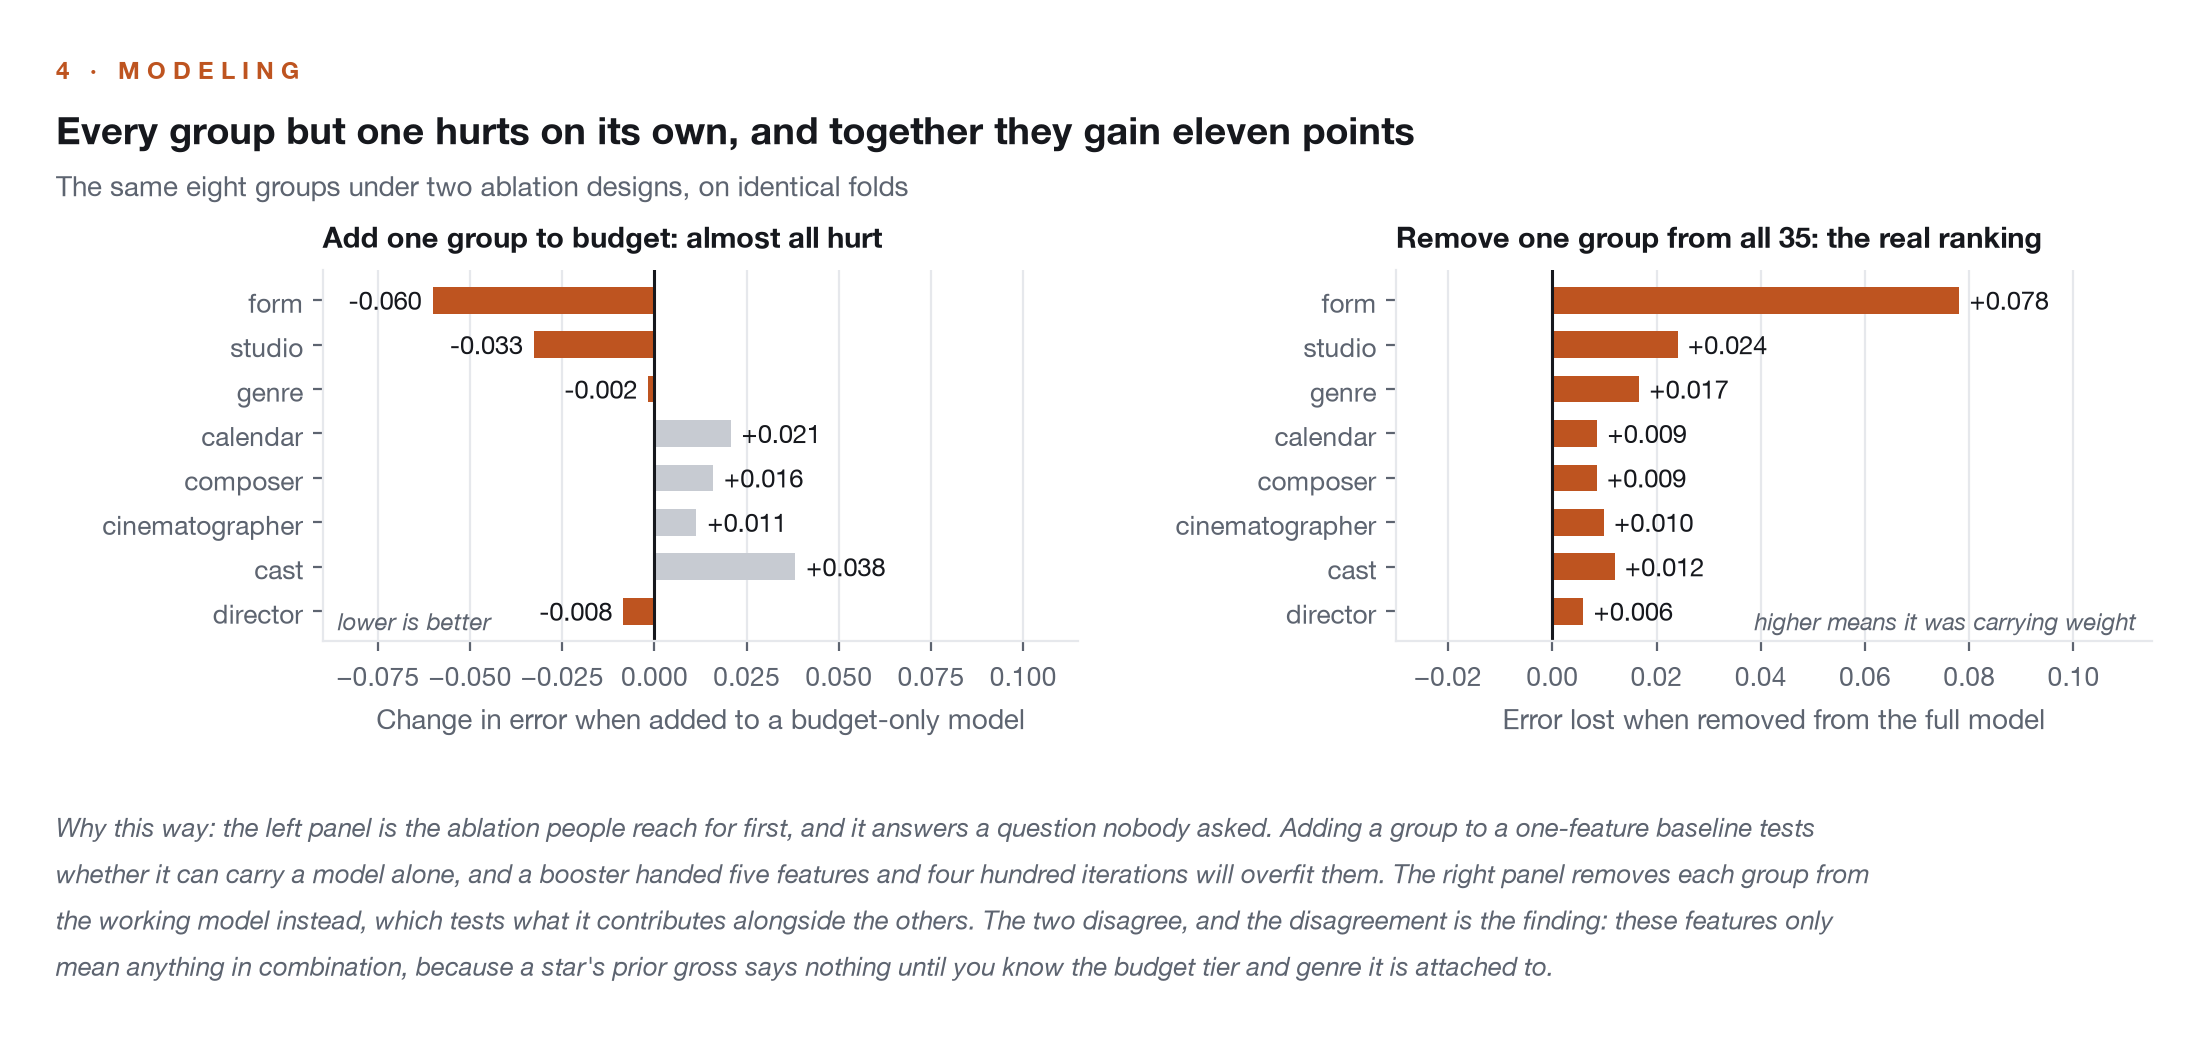
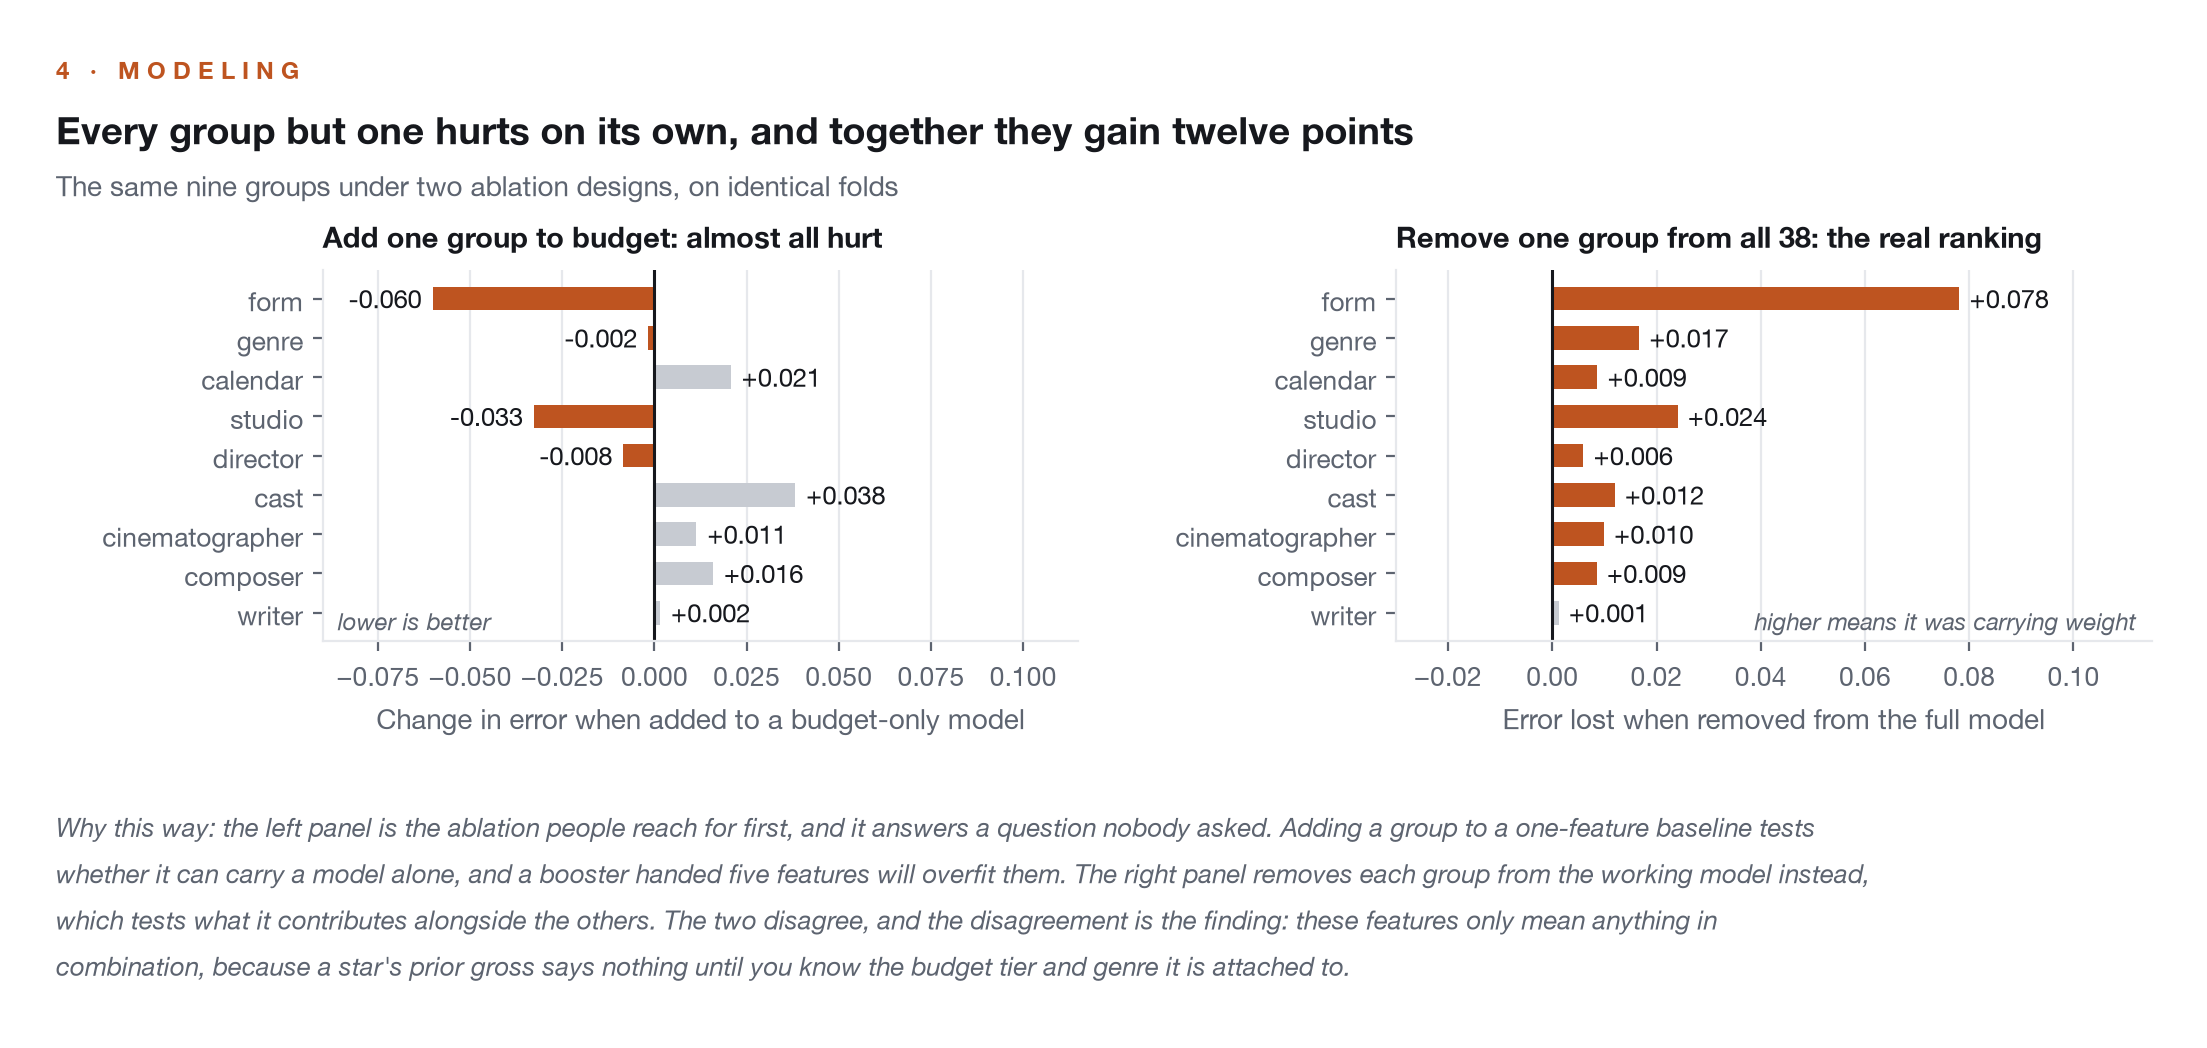
boxoffice: read every number in the figures from the data that produced it
The tests that pin every published table cannot see inside a PNG, and the
figures had drifted exactly the way the tables used to. The baselines chart
carried 31.0% and 47.3% as literals from before the target corrections, said
16 folds to 2025 and 35 features, and typed "clears it in 15 of the 16 folds"
into its own caption. Its lift arrow landed on the model's value label. The
sample funnel typed 2647 and 2000-2025. The ablation charts listed eight groups
and omitted the writer. The signals chart ranked groups by a third-decimal
error difference and captioned the people as sitting at zero, which the
significance run has since superseded.

Every number is now read at render time: the baselines and the per-fold record
from train.run, the sample size and year range from the matrix, the feature
count from feature_columns, the group list from ablation.csv, and the fourth
chart from significance.csv, drawn as effect on hit rate with a 95% whisker and
coloured by McNemar's verdict, so a bar only reads as carrying weight when its
interval clears zero. Every sentence containing a number is built from the
value. The two TMDB-side figures in the funnel, 37,486 theatrical titles in
2019 and 174 from the frame, stay as documented facts about the source rather
than derived statistics, and are labelled as such.

diff --git a/backend/boxoffice/reports/charts.py b/backend/boxoffice/reports/charts.py
@@ -3,8 +3,17 @@ Figures for the box office study, in the same house style as the portfolio.
 
 One chart per decision, each titled with what it found rather than what it
 plots, and each carrying the reasoning for its step underneath.
+
+Nothing in these figures is typed. The first version carried the baseline hit
+rates, the fold count, the year range, the feature count and even the sentence
+"clears it in 15 of the 16 folds" as string literals, and every one of them
+went stale the moment the sample grew or the target was corrected, while the
+tests that guard the written tables had no way to see inside a PNG. So every
+number here is read from the artifact that produced it, and every sentence
+that contains a number is built from the value at render time.
 """
 from __future__ import annotations
+import json
 import sys
 from pathlib import Path
 import numpy as np
@@ -17,21 +26,64 @@ import house as H
 from house import ACCENT, SLATE, GREY, INK, MUTED, LINE, BAD
 import matplotlib.pyplot as plt
 
+from boxoffice.model.train import feature_columns, run, summarise
+from boxoffice.pipeline.fetch import BUDGET_FLOOR, DISTRIBUTORS
+
 DATA = HERE.parent / "data"
 OUT = HERE / "figures"
 OUT.mkdir(parents=True, exist_ok=True)
 
 feat = pd.read_parquet(DATA / "features.parquet")
+released = feat[~feat["is_upcoming"].fillna(False).astype(bool)]
 abl = pd.read_csv(DATA / "ablation.csv")
+sig = pd.read_csv(DATA / "significance.csv")
+
+N_FEATURES = len(feature_columns(feat))
+YEAR_LO, YEAR_HI = int(released.release_date.dt.year.min()), int(released.release_date.dt.year.max())
+
+# The baselines and the per-fold record, computed rather than remembered.
+folds = run(feat, feature_columns(feat))
+summary = summarise(folds).set_index("estimator")
+N_FOLDS = len(folds)
+FOLD_LO, FOLD_HI = folds[0].year, folds[-1].year
+BEATS = sum(f.within_2x["model"] > f.within_2x["budget_only"] for f in folds)
+
+# Two figures TMDB reports about itself, recorded in the notebook's Decision 5
+# and kept here as documented facts about the source rather than derived
+# statistics. Everything below them in the funnel is counted from disk.
+TMDB_THEATRICAL_2019 = 37_486
+FRAME_2019 = 174
+
+
+def _above_floor() -> int:
+    """Released films in the cache that cleared the budget floor."""
+    today = pd.Timestamp.today().normalize()
+    n = 0
+    for p in (DATA / "cache" / "film").glob("*.json"):
+        try:
+            b = json.loads(p.read_text())
+        except (json.JSONDecodeError, OSError):
+            continue
+        d = pd.to_datetime(b.get("release_date"), errors="coerce")
+        if pd.notna(d) and d <= today and (b.get("budget") or 0) >= BUDGET_FLOOR:
+            n += 1
+    return n
+
+
+def _words(n: int) -> str:
+    small = ["zero", "one", "two", "three", "four", "five", "six", "seven", "eight",
+             "nine", "ten", "eleven", "twelve", "thirteen", "fourteen", "fifteen"]
+    return small[n] if 0 <= n < len(small) else str(n)
+
 
 # ------------------------------------------------------------ 1. the sample
 fig, axes = plt.subplots(1, 2, figsize=(11.2, 4.7),
                          gridspec_kw={"width_ratios": [1.1, 1], "wspace": 0.32})
 ax = axes[0]
-steps = [("TMDB titles tagged theatrical, 2019", 37486, GREY),
-         ("From 42 major and mini-major distributors", 174, SLATE),
-         ("Above the $1M budget floor, 2000-2025", 2647, SLATE),
-         ("With a reported worldwide gross", len(feat), ACCENT)]
+steps = [("TMDB titles tagged theatrical, 2019", TMDB_THEATRICAL_2019, GREY),
+         (f"From {len(DISTRIBUTORS)} major and mini-major distributors", FRAME_2019, SLATE),
+         (f"Above the ${BUDGET_FLOOR / 1e6:.0f}M budget floor, {YEAR_LO}-{YEAR_HI}", _above_floor(), SLATE),
+         ("With a reported worldwide gross", len(released), ACCENT)]
 y = np.arange(len(steps))[::-1]
 ax.barh(y, [s[1] for s in steps], color=[s[2] for s in steps], height=0.5)
 for yi, (label, v, c) in zip(y, steps):
@@ -54,8 +106,6 @@ rejected = [("Sort by revenue", "selects on the target"),
             ("Filter by distributor", "known months before release")]
 for i, (name, why) in enumerate(rejected):
     ok = i == 3
-    # Rows spaced wider than 1.0: each carries two lines of type and they
-    # were colliding with the row beneath.
     yy = (len(rejected) - 1 - i) * 1.6
     ax.scatter([0], [yy], s=150, marker="o" if ok else "x",
                color=ACCENT if ok else BAD, linewidth=2.4, zorder=3)
@@ -70,49 +120,52 @@ ax.set_title("Why the frame is the distributor", fontsize=10.5, color=INK,
              fontweight="bold", loc="left", pad=8)
 
 H.layout(fig, "data",
-  f"The sampling frame had to be a pre-release fact, which rules out every convenient filter",
-  f"{len(feat):,} films, 2000 to 2025, defined by who agreed to distribute them "
+  "The sampling frame had to be a pre-release fact, which rules out every convenient filter",
+  f"{len(released):,} films, {YEAR_LO} to {YEAR_HI}, defined by who agreed to distribute them "
   "and what they cost",
-  why_text="Why this way: TMDB tags almost everything theatrical, returning 37,486 titles for "
-           "2019 alone, most of it festival and direct-to-video tail with no budget and no gross. "
-           "Every quick way to cut that down selects on the outcome. Sorting by revenue is "
-           "obvious; filtering by vote count or popularity is the same mistake wearing a "
-           "different name, because both measure how many people eventually saw the film. A "
-           "distributor is attached months before opening weekend, so anchoring on one keeps the "
-           "sample definition itself free of the answer.",
+  why_text=f"Why this way: TMDB tags almost everything theatrical, returning {TMDB_THEATRICAL_2019:,} "
+           "titles for 2019 alone, most of it festival and direct-to-video tail with no budget and no "
+           "gross. Every quick way to cut that down selects on the outcome. Sorting by revenue is "
+           "obvious; filtering by vote count or popularity is the same mistake wearing a different "
+           "name, because both measure how many people eventually saw the film. A distributor is "
+           "attached months before opening weekend, so anchoring on one keeps the sample definition "
+           "itself free of the answer.",
   extra_bottom=0.04)
 H.save(fig, OUT / "bo-1-sample.png")
 
 # ------------------------------------------------------- 2. against baselines
-base = abl[abl.design == "add one to budget"]
-med_2x, bud_2x = 0.310, 0.473
-mod_2x = float(base[base.group == "all groups"]["within_2x"].iloc[0])
+med_2x = float(summary.loc["median", "within_2x"])
+bud_2x = float(summary.loc["budget_only", "within_2x"])
+mod_2x = float(summary.loc["model", "within_2x"])
+lift_pts = (mod_2x - bud_2x) * 100
 fig, ax = plt.subplots(figsize=(9.6, 4.8))
 vals = [med_2x, bud_2x, mod_2x]
-names = ["Predict the median film", "Budget alone", "All 35 pre-release features"]
+names = ["Predict the median film", "Budget alone", f"All {N_FEATURES} pre-release features"]
 ax.bar([0, 1, 2], vals, color=[GREY, SLATE, ACCENT], width=0.5)
 for i, v in enumerate(vals):
     ax.text(i, v + 0.012, f"{v:.1%}", ha="center", fontsize=13,
             fontweight="bold", color=INK)
-ax.annotate("", xy=(2, mod_2x + 0.055), xytext=(1, bud_2x + 0.055),
+# The arc used to land on the model's own value label. It now runs between
+# the bars' inner edges and its caption sits above the apex, with headroom.
+ax.annotate("", xy=(1.72, mod_2x + 0.085), xytext=(1.28, bud_2x + 0.085),
             arrowprops=dict(arrowstyle="-|>", color=INK, lw=1.4,
-                            connectionstyle="arc3,rad=-0.2"))
-ax.text(1.5, mod_2x + 0.095, f"+{(mod_2x - bud_2x) * 100:.1f} points", ha="center",
+                            connectionstyle="arc3,rad=-0.25"))
+ax.text(1.5, mod_2x + 0.135, f"+{lift_pts:.1f} points", ha="center",
         fontsize=10.5, fontweight="bold", color=INK)
 ax.set_xticks([0, 1, 2]); ax.set_xticklabels(names, fontsize=9.7)
-ax.set_ylim(0, 0.72)
+ax.set_ylim(0, 0.80)
 ax.set_yticks([0, 0.2, 0.4, 0.6]); ax.set_yticklabels(["0%", "20%", "40%", "60%"])
 ax.set_ylabel("Within a factor of two")
 H.frame(ax, grid="y")
 H.layout(fig, "evaluation",
-  "Budget alone gets you halfway; everything else knowable adds eight points",
-  "16 rolling-origin folds, 2010 to 2025, each scoring a year the model had "
+  f"Budget alone gets you halfway; everything else knowable adds {_words(round(lift_pts))} points",
+  f"{N_FOLDS} rolling-origin folds, {FOLD_LO} to {FOLD_HI}, each scoring a year the model had "
   "never seen",
   why_text="Why this way: the metric is the share of forecasts inside a factor of two, not "
            "R-squared, because box office spans five orders of magnitude and a squared error in "
            "dollars is decided by half a dozen films. Budget-only is the bar that matters: what a "
            "studio spends is most of what a studio makes, and a model that cannot clear it is not "
-           "earning its complexity. It clears it in 15 of the 16 folds.",
+           f"earning its complexity. It clears it in {BEATS} of the {N_FOLDS} folds.",
   extra_bottom=0.04)
 H.save(fig, OUT / "bo-2-baselines.png")
 print("wrote sample + baselines")
@@ -122,8 +175,8 @@ add = abl[abl.design == "add one to budget"].set_index("group")
 loo = abl[abl.design == "remove one from full"].copy()
 loo["g"] = loo["group"].str.replace("- ", "", regex=False)
 loo = loo.set_index("g")
-groups = ["form", "studio", "genre", "calendar", "composer",
-          "cinematographer", "cast", "director"]
+groups = list(loo.index)                       # every group, writer included
+all_pts = float(add.loc["all groups", "d_2x"]) * 100
 
 fig, axes = plt.subplots(1, 2, figsize=(11.8, 5.0), gridspec_kw={"wspace": 0.42})
 ax = axes[0]
@@ -153,62 +206,83 @@ ax.axvline(0, color=INK, lw=1.1)
 ax.set_yticks(y); ax.set_yticklabels(groups, fontsize=9.5)
 ax.set_xlim(-0.03, 0.115)
 ax.set_xlabel("Error lost when removed from the full model")
-ax.set_title("Remove one group from all 35: the real ranking", fontsize=10.5,
+ax.set_title(f"Remove one group from all {N_FEATURES}: the real ranking", fontsize=10.5,
              color=INK, fontweight="bold", loc="left", pad=8)
 H.frame(ax, grid="x"); ax.grid(axis="y", visible=False)
 ax.text(0.98, 0.03, "higher means it was carrying weight", transform=ax.transAxes,
         fontsize=8.8, color=MUTED, style="italic", ha="right")
 
 H.layout(fig, "model",
-  "Every group but one hurts on its own, and together they gain eleven points",
-  "The same eight groups under two ablation designs, on identical folds",
+  f"Every group but one hurts on its own, and together they gain {_words(round(all_pts))} points",
+  f"The same {_words(len(groups))} groups under two ablation designs, on identical folds",
   why_text="Why this way: the left panel is the ablation people reach for first, and it answers "
            "a question nobody asked. Adding a group to a one-feature baseline tests whether it "
-           "can carry a model alone, and a booster handed five features and four hundred "
-           "iterations will overfit them. The right panel removes each group from the working "
-           "model instead, which tests what it contributes alongside the others. The two "
-           "disagree, and the disagreement is the finding: these features only mean anything in "
-           "combination, because a star's prior gross says nothing until you know the budget tier "
-           "and genre it is attached to.",
+           "can carry a model alone, and a booster handed five features will overfit them. The "
+           "right panel removes each group from the working model instead, which tests what it "
+           "contributes alongside the others. The two disagree, and the disagreement is the "
+           "finding: these features only mean anything in combination, because a star's prior "
+           "gross says nothing until you know the budget tier and genre it is attached to.",
   extra_bottom=0.04)
 H.save(fig, OUT / "bo-3-ablation-design.png")
 
 # ------------------------------------------- 4. what each signal is worth
-order = sorted(groups, key=lambda g: -float(loo.loc[g, "d_mae"]))
-fig, ax = plt.subplots(figsize=(10.2, 5.2))
-vals = [float(loo.loc[g, "d_mae"]) for g in order]
-y = np.arange(len(order))[::-1]
-cols = [ACCENT if v > 0.03 else (SLATE if v > 0.005 else GREY) for v in vals]
-ax.barh(y, vals, color=cols, height=0.6)
+# The bar is the effect on the hit rate; the whisker is its 95% interval from
+# the paired bootstrap; the colour is McNemar's verdict. A bar whose whisker
+# crosses zero is drawn grey whatever its length, because length without an
+# interval is how the first version of this chart ranked noise.
+sg = sig[sig.comparison.str.startswith("full model vs without ")].copy()
+sg["g"] = sg.comparison.str.replace("full model vs without ", "", regex=False)
+sg = sg.set_index("g").loc[groups]
+order = list(sg.sort_values("difference", ascending=False).index)
 LABEL = {"form": "Form: sequel, franchise position, runtime, language",
          "studio": "Studio: the distributor and its track record",
          "genre": "Genre", "calendar": "Release timing",
          "composer": "Composer's prior grosses",
          "cinematographer": "Cinematographer's prior grosses",
          "cast": "Cast: the stars' prior grosses",
-         "director": "Director's prior grosses"}
-for yi, (g, v) in zip(y, zip(order, vals)):
-    ax.text(v + 0.0025, yi, f"{v:+.3f}", va="center", fontsize=9.5,
-            fontweight="bold" if v > 0.03 else "normal", color=INK)
-ax.set_yticks(y); ax.set_yticklabels([LABEL[g] for g in order], fontsize=9.5)
-ax.axvline(0, color=INK, lw=1.2)
-ax.set_xlim(-0.02, 0.115)
-ax.set_xlabel("Error the full model loses when this group is removed")
-H.frame(ax, grid="x"); ax.grid(axis="y", visible=False)
-ax.text(0.985, 0.04, "the three people-based groups sit at zero",
-        transform=ax.transAxes, ha="right", fontsize=9.3, color=MUTED, style="italic")
+         "director": "Director's prior grosses",
+         "writer": "Writer's prior grosses"}
+PEOPLE = {"director", "cast", "cinematographer", "composer", "writer"}
 
+fig, ax = plt.subplots(figsize=(10.6, 5.6))
+y = np.arange(len(order))[::-1]
+for yi, g in zip(y, order):
+    r = sg.loc[g]
+    real = r.verdict == "significant"
+    d, lo, hi = r.difference * 100, r.ci_lo * 100, r.ci_hi * 100
+    ax.barh(yi, d, color=ACCENT if real else GREY, height=0.56, zorder=2)
+    ax.plot([lo, hi], [yi, yi], color=INK, lw=1.3, zorder=3)
+    ax.plot([lo, lo], [yi - 0.16, yi + 0.16], color=INK, lw=1.3, zorder=3)
+    ax.plot([hi, hi], [yi - 0.16, yi + 0.16], color=INK, lw=1.3, zorder=3)
+    ax.text(max(hi, d) + 0.35, yi, f"{d:+.1f} pts   p={r.p_mcnemar:.3f}" if r.p_mcnemar >= 0.001
+            else f"{d:+.1f} pts   p<0.001", va="center", fontsize=9.2,
+            fontweight="bold" if real else "normal", color=INK)
+ax.axvline(0, color=INK, lw=1.2, zorder=1)
+ax.set_yticks(y); ax.set_yticklabels([LABEL[g] for g in order], fontsize=9.5)
+ax.set_xlim(-3.2, max(sg.ci_hi) * 100 + 5.5)
+ax.set_xlabel("Change in share within a factor of two when the group is removed, with 95% CI")
+H.frame(ax, grid="x"); ax.grid(axis="y", visible=False)
+
+n_real = int((sg.verdict == "significant").sum())
+people_real = int(((sg.verdict == "significant") & sg.index.isin(PEOPLE)).sum())
+people_note = ("none of the five people-based groups clears the line"
+               if people_real == 0 else
+               f"{people_real} of the five people-based groups clear the line")
+ax.text(0.985, 0.04, people_note, transform=ax.transAxes, ha="right",
+        fontsize=9.3, color=MUTED, style="italic")
 H.layout(fig, "evaluation",
-  "The distributor predicts better than the cast, the director or the cinematographer",
-  "What the film is worth more than who made it: sequel status and franchise "
-  "position carry twice what the studio does, and the people carry nothing",
-  why_text="Why this way: the three groups built from who is attached to the film contribute "
-           "nothing measurable. Cinematographer lands at exactly zero, which was the prediction "
-           "before the run and is now the data's answer rather than an assertion. Cast is "
-           "indistinguishable from zero, so a star's prior box office does not predict the next "
-           "one at this sample size. Removing the director slightly improves the model. The "
-           "signal that survives is what the film is, not who is in it, and half of that is "
-           "simply whether it is a sequel and where in its franchise it sits.",
+  f"Only {_words(n_real)} of {_words(len(order))} groups are distinguishable from noise, and none "
+  "of them is about the people",
+  "Leave-one-out on identical folds; McNemar's exact test on the films the two models disagree "
+  "about, paired bootstrap over films for the interval",
+  why_text="Why this way: ranking groups by a third-decimal difference in error, as the first "
+           "version of this chart did, ranks noise. The hit rate is binary per film and both "
+           "models see the same films, so the comparison is paired, and a group only counts as "
+           "carrying weight when its interval clears zero. What survives is what the film is and "
+           "who releases it. Every group describing who made it, director, cast, cinematographer, "
+           "composer and writer, has an interval containing zero, which is a weaker claim than "
+           f"'they contribute nothing' and an honest one: {len(released):,} films cannot resolve "
+           "an effect of one point.",
   extra_bottom=0.04)
 H.save(fig, OUT / "bo-4-what-signals-buy.png")
 print("wrote ablation charts")
